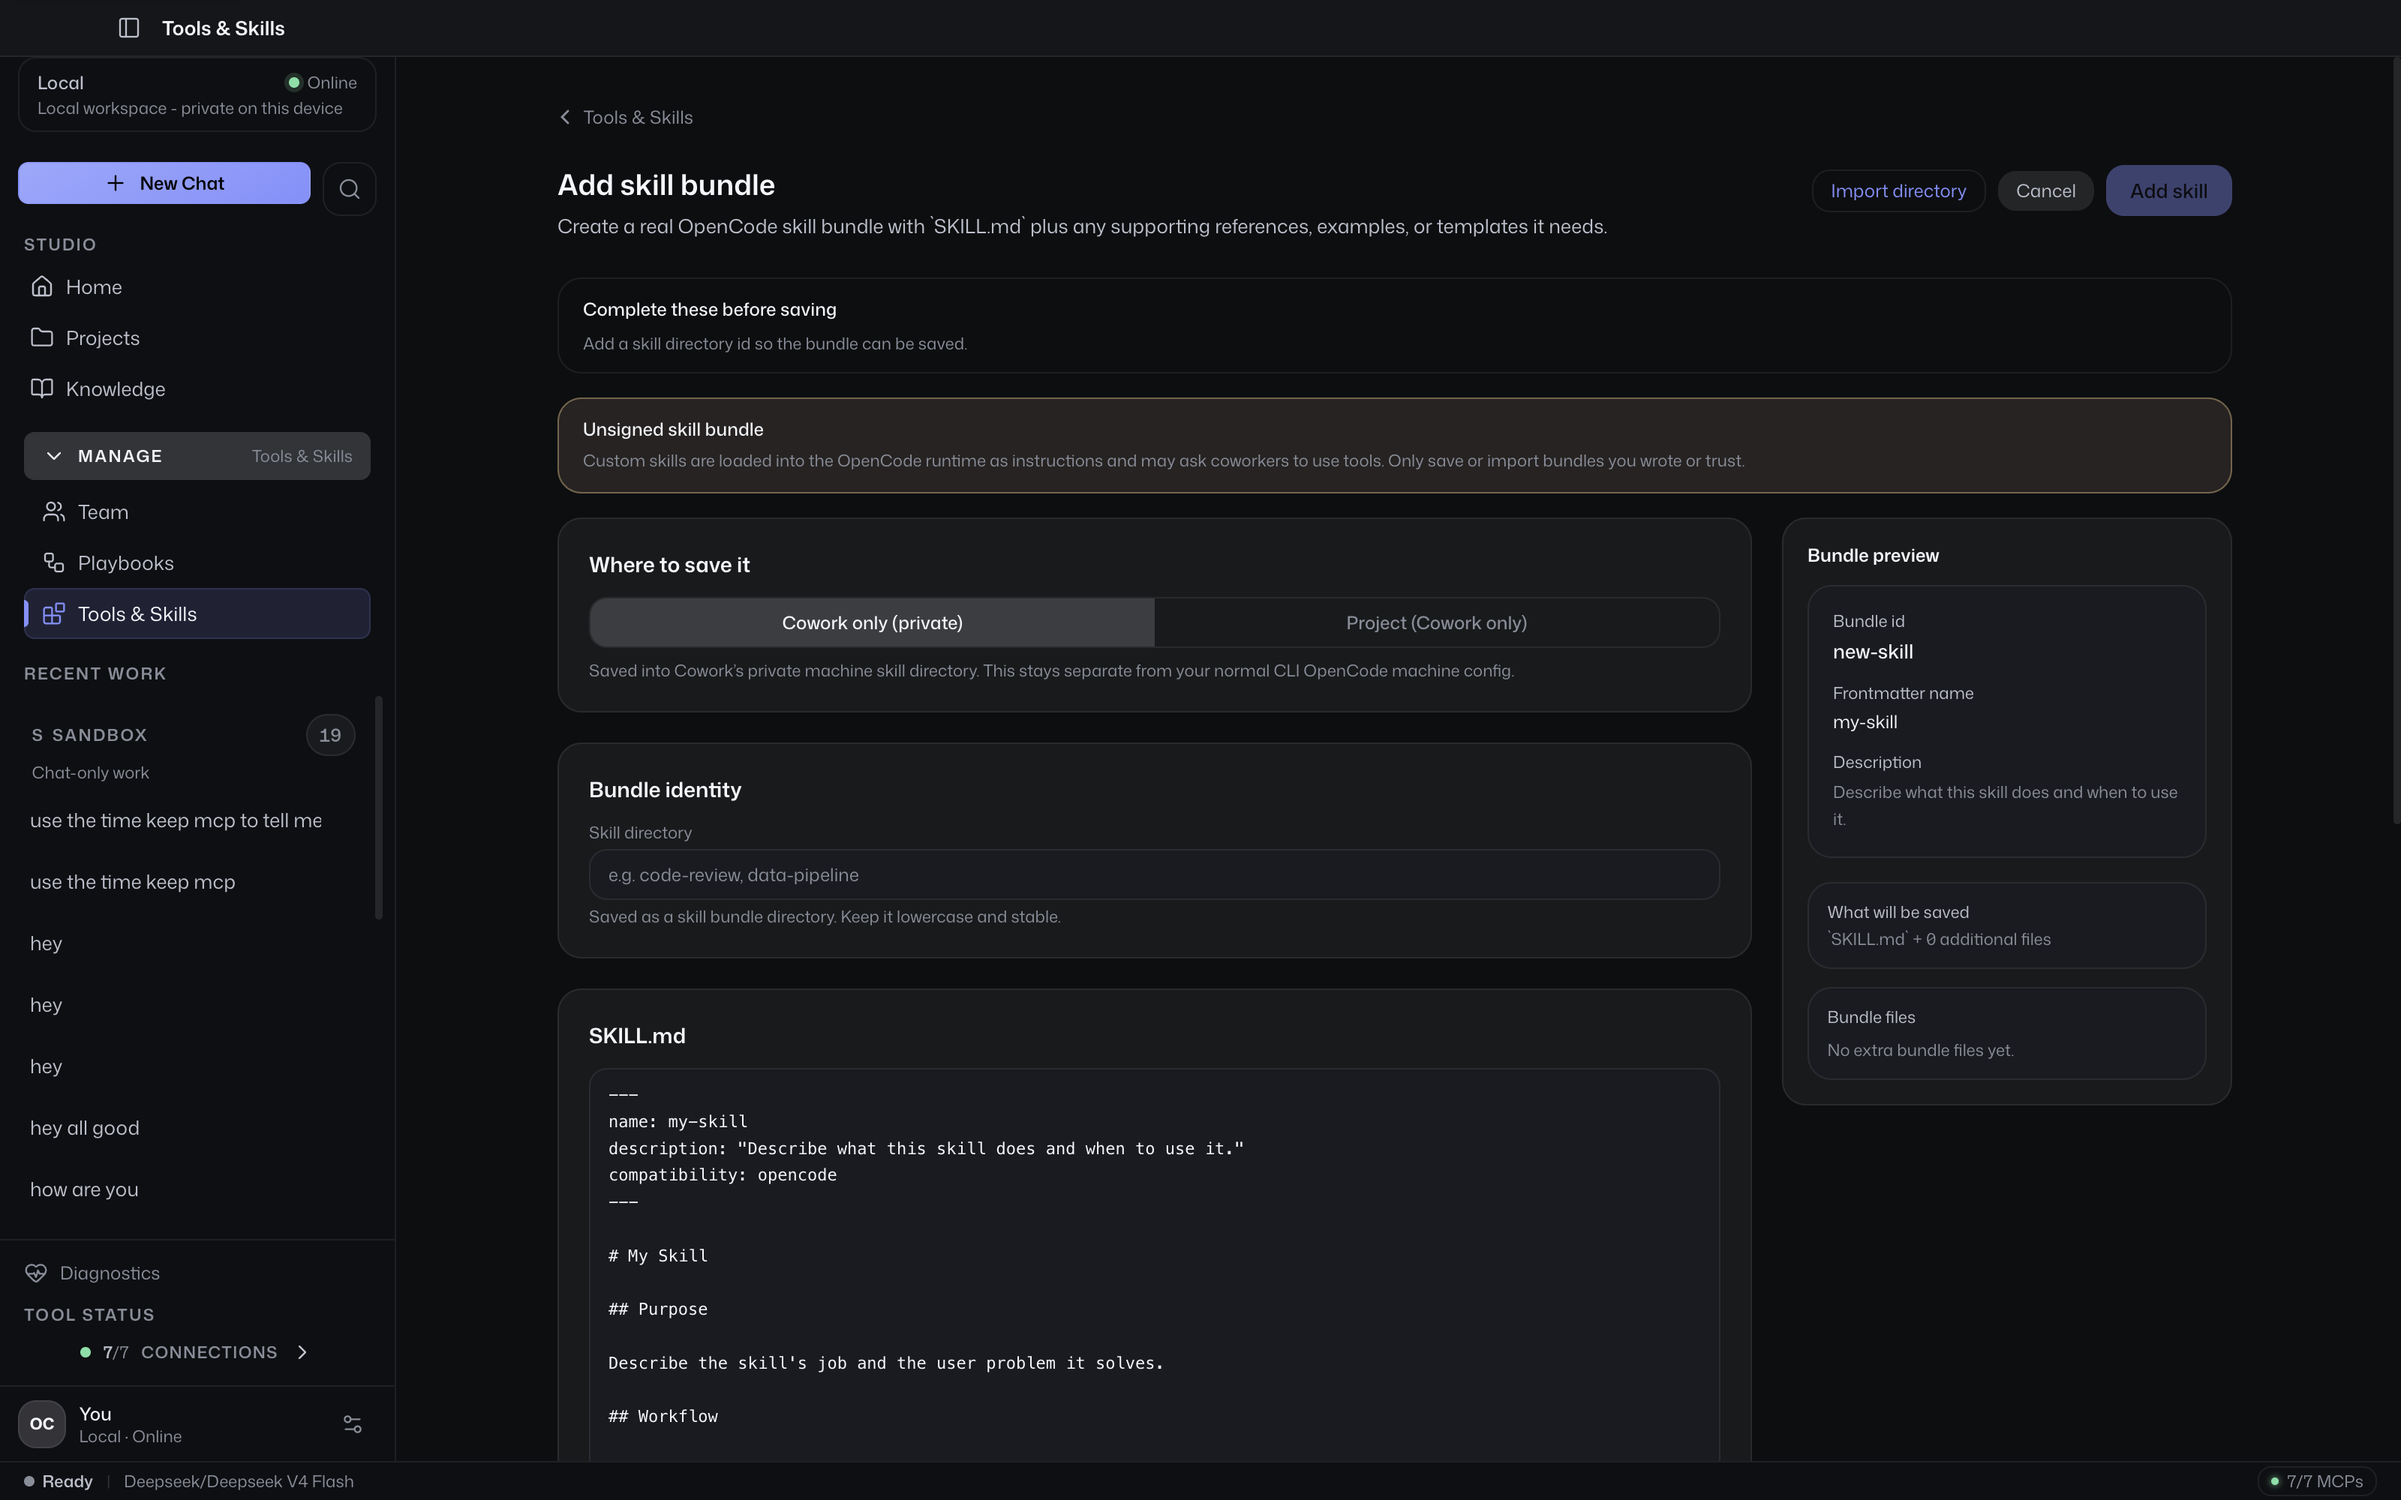
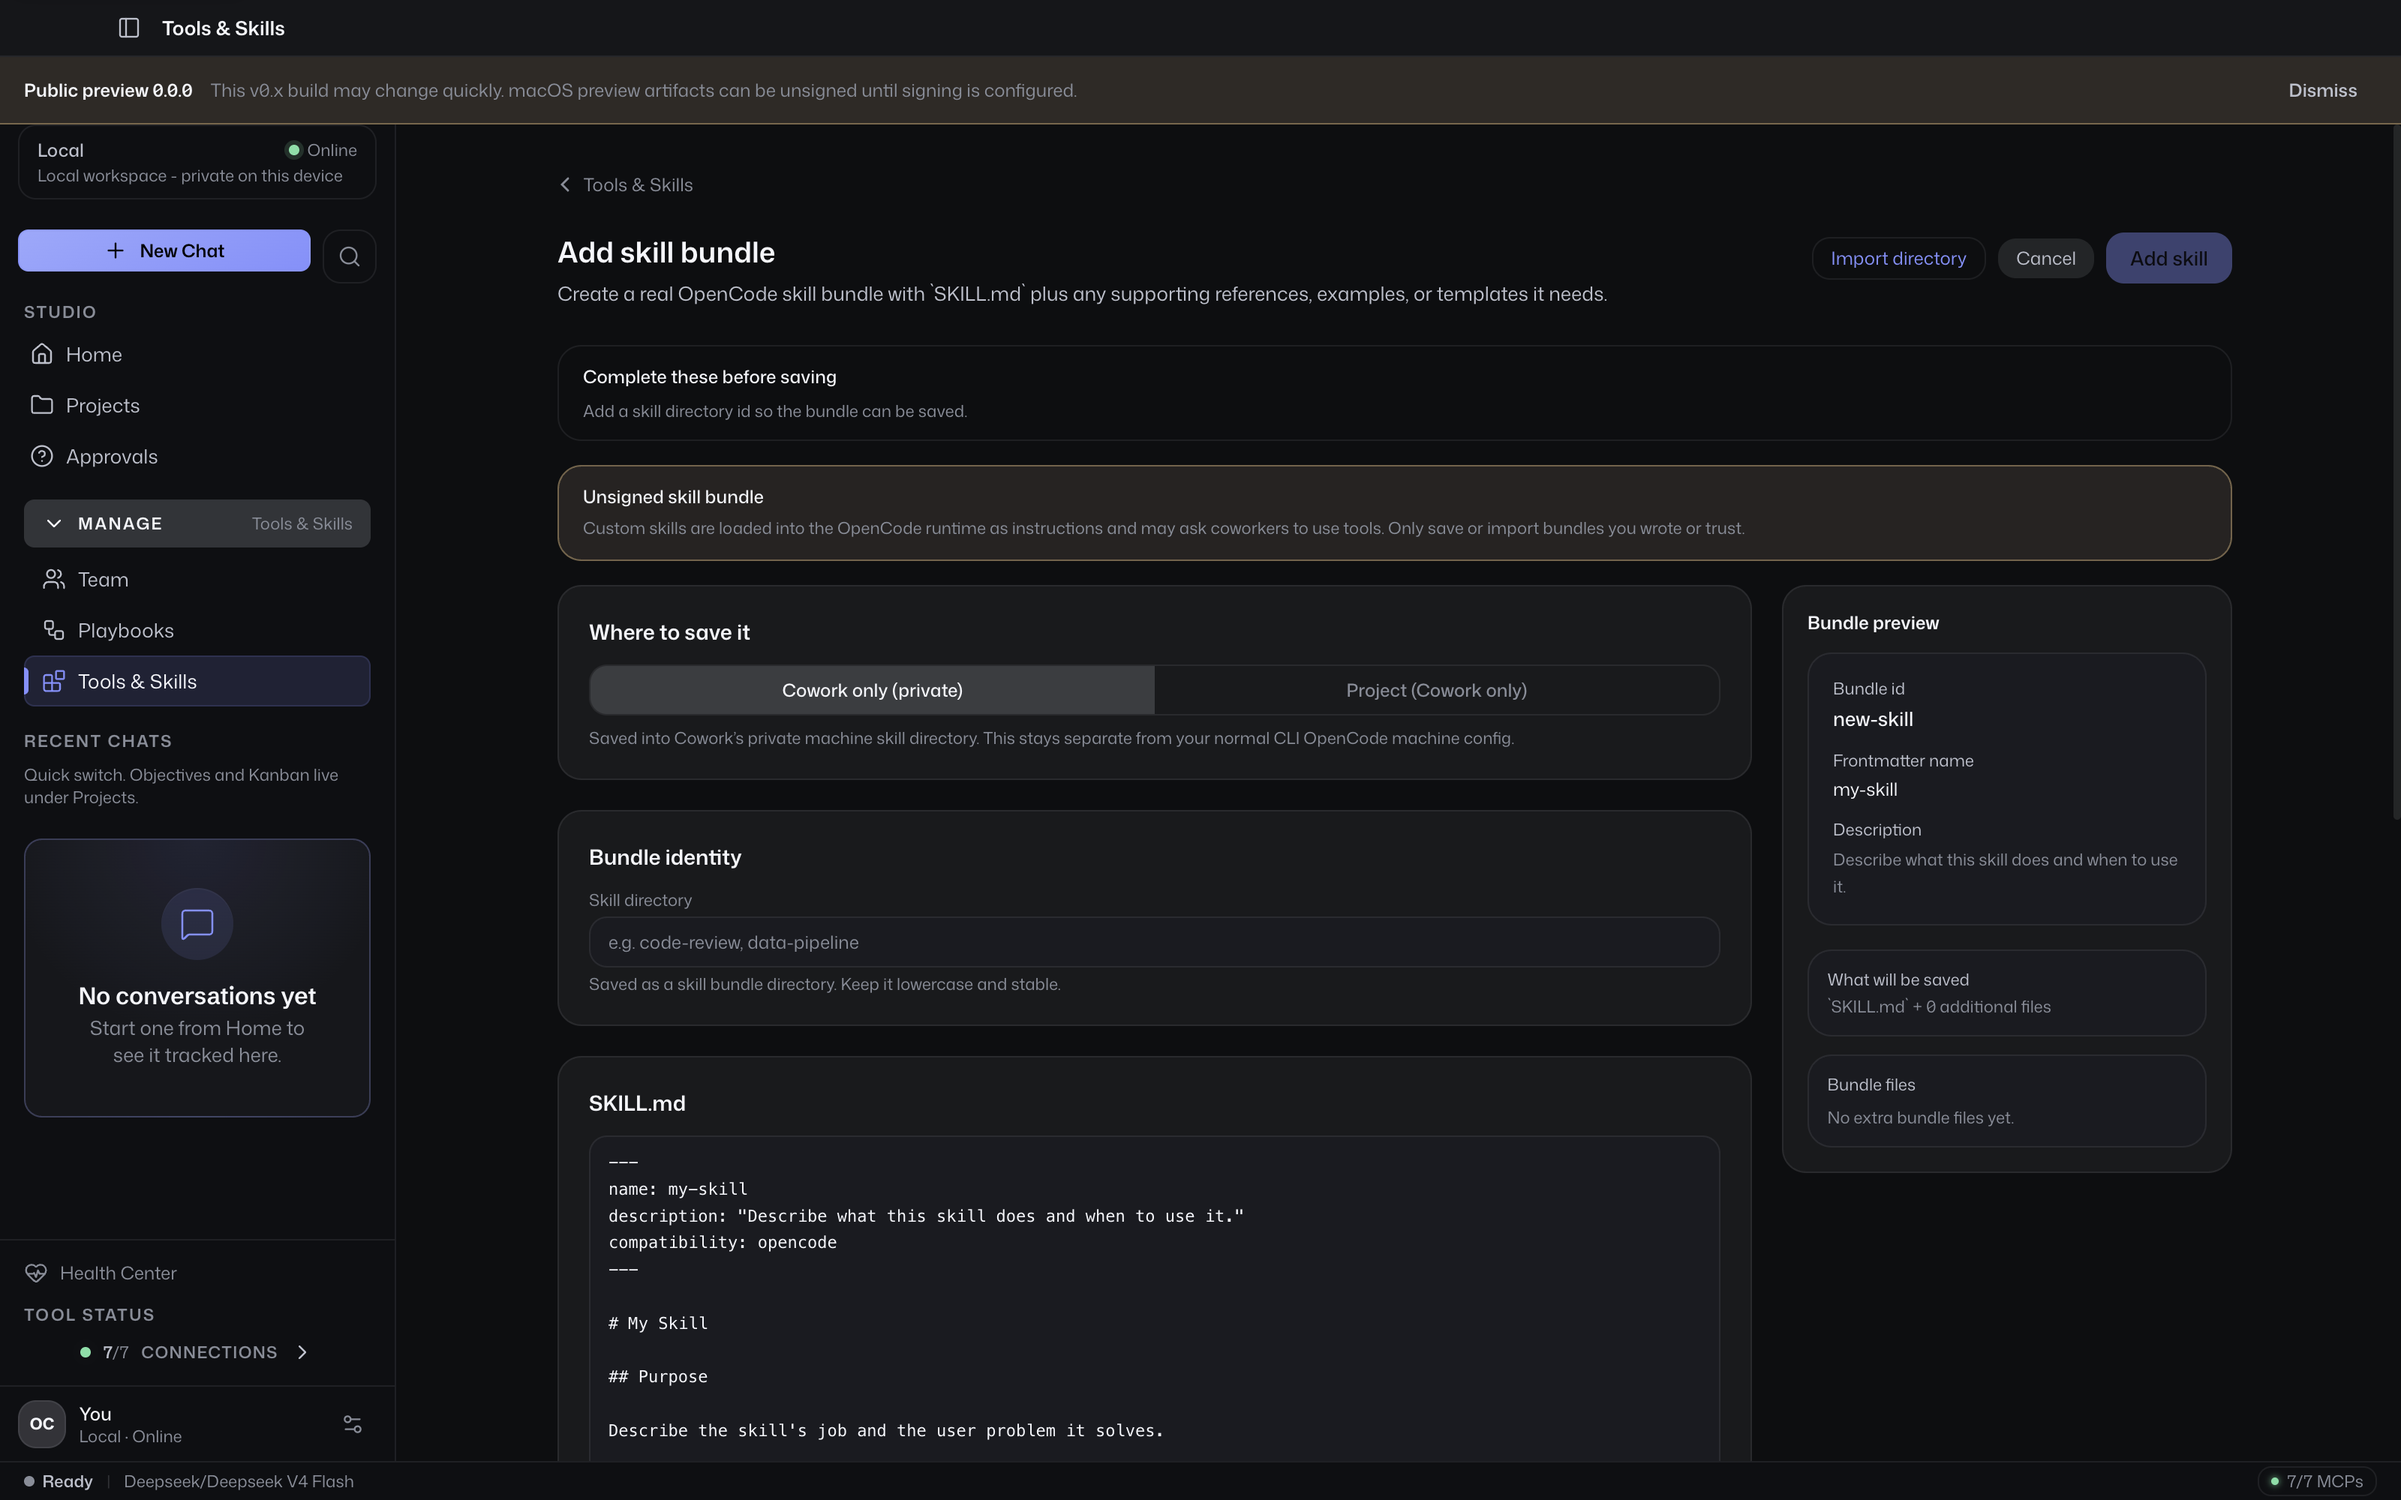
fix(hardening): close 2026-07-25 audit findings
Full first-principles audit remediation:

- i18n: regenerate coverage-status.ts and wire `pnpm i18n:check` into the
  CI validate job — the gate existed but no workflow ran it, which is how
  master drifted red (F1)
- screenshots: regenerate all 21 docs/assets/auto captures, stale since
  the Diagnostics -> Health Center rename (F2)
- session titles: new displaySessionTitle helper humanizes OpenCode SDK
  default titles ("New session - <ISO>") to "New chat · <date>" in the
  sidebar, chat header, and artifact labels; hand-translated into all 11
  catalogs per repo policy; 5 unit tests (F8)
- chat rail: rename the artifacts section "Review" -> "Outputs" so the
  inspector no longer shows two adjacent "Review" headings (F9)
- codeql: also run on release tags (v*, gateway@v*/-v*, wiki@v*/-v*) so
  releases never ship with only a weeks-old monthly scan (F5)
- docs: surface the 7 orphaned decision/history docs in a "Decisions &
  History" nav group (F7); document server-side session revocation as a
  hosted-tier precondition (F3), dual-stack consolidation revisit
  triggers (F6), a voice value-review date of 2026-10-25 (F10), and the
  locale coverage policy (F11)

F4 (GHSA ignores) needed no change: #998 already cleared the ignore list
and pnpm audit:full runs clean with zero exceptions.

diff --git a/packages/app/src/helpers/session-title.test.ts b/packages/app/src/helpers/session-title.test.ts
@@ -1,0 +1,34 @@
+import { describe, expect, it } from 'vitest'
+import { displaySessionTitle } from './session-title'
+
+describe('displaySessionTitle', () => {
+  it('passes user and history-derived titles through unchanged', () => {
+    expect(displaySessionTitle({ title: 'Fix the perf gate', createdAt: '2026-07-17T09:24:11.216Z' }))
+      .toBe('Fix the perf gate')
+    // Titles that merely mention the SDK default are not defaults.
+    expect(displaySessionTitle({ title: 'New session planning doc' }))
+      .toBe('New session planning doc')
+  })
+
+  it('returns null for missing or blank titles so callers keep their fallbacks', () => {
+    expect(displaySessionTitle({ title: null })).toBeNull()
+    expect(displaySessionTitle({ title: '   ' })).toBeNull()
+    expect(displaySessionTitle({})).toBeNull()
+  })
+
+  it('humanizes SDK default titles using the embedded timestamp', () => {
+    const result = displaySessionTitle({ title: 'New session - 2026-07-17T09:24:11.216Z' })
+    expect(result).toMatch(/^New chat · /)
+    expect(result).not.toContain('2026-07-17T')
+  })
+
+  it('falls back to createdAt when the default title has no timestamp', () => {
+    const result = displaySessionTitle({ title: 'New session', createdAt: '2026-07-17T09:24:11.216Z' })
+    expect(result).toMatch(/^New chat · /)
+  })
+
+  it('degrades to a plain label when no timestamp is available', () => {
+    expect(displaySessionTitle({ title: 'New session' })).toBe('New chat')
+    expect(displaySessionTitle({ title: 'New session', createdAt: 'not-a-date' })).toBe('New chat')
+  })
+})

diff --git a/packages/app/src/helpers/session-title.ts b/packages/app/src/helpers/session-title.ts
@@ -1,0 +1,35 @@
+import { formatDate, t } from './i18n'
+
+// OpenCode SDK default titles arrive as "New session" or
+// "New session - 2026-07-17T09:24:11.216Z". Rendering the raw ISO instant is
+// runtime-host's recognizer (session-history-loader.ts) applied at display
+// time: surfaces that show these titles humanize them instead of leaking the
+// machine timestamp, while user- or history-derived titles pass through.
+const DEFAULT_SDK_SESSION_TITLE_RE = /^New session(?: - (\d{4}-\d{2}-\d{2}T\d{2}:\d{2}:\d{2}(?:\.\d+)?Z?))?$/i
+
+function parseInstant(value?: string | null): Date | null {
+  if (!value) return null
+  const parsed = new Date(value)
+  return Number.isNaN(parsed.getTime()) ? null : parsed
+}
+
+/**
+ * Display title for a session, or null when the session has no usable title so
+ * callers keep their existing fallbacks. SDK default titles become a localized
+ * "New chat · Jul 17, 09:24" using the timestamp embedded in the title when
+ * present, else the session's createdAt.
+ */
+export function displaySessionTitle(session: {
+  title?: string | null
+  createdAt?: string | null
+}): string | null {
+  const trimmed = session.title?.trim()
+  if (!trimmed) return null
+  const match = DEFAULT_SDK_SESSION_TITLE_RE.exec(trimmed)
+  if (!match) return trimmed
+  const instant = parseInstant(match[1] || session.createdAt)
+  if (!instant) return t('session.newChat', 'New chat')
+  return t('session.newChatAt', 'New chat · {{when}}', {
+    when: formatDate(instant, { month: 'short', day: 'numeric', hour: '2-digit', minute: '2-digit' }),
+  })
+}

diff --git a/packages/app/src/components/sidebar/ThreadList.tsx b/packages/app/src/components/sidebar/ThreadList.tsx
@@ -5,6 +5,7 @@ import { LOCAL_WORKSPACE_ID, normalizeWorkspaceId, sessionWorkspaceKey } from '.
 import { switchToSession } from '../../helpers/switchToSession'
 import { confirmSessionDelete } from '../../helpers/destructive-actions'
 import { t } from '../../helpers/i18n'
+import { displaySessionTitle } from '../../helpers/session-title'
 import { writeTextToClipboard } from '../../helpers/clipboard'
 import { ViewErrorBoundary } from '../layout/ViewErrorBoundary'
 import { cloudGitRepositoryLabel } from '@open-cowork/shared'
@@ -473,7 +474,7 @@ export function ThreadList({ onSelect, searchQuery }: { onSelect?: () => void; s
                         ⑂
                       </span>
                     )}
-                    {session.title || t('sidebar.threadFallback', 'Thread {{id}}', { id: session.id.slice(0, 6) })}
+                    {displaySessionTitle(session) || t('sidebar.threadFallback', 'Thread {{id}}', { id: session.id.slice(0, 6) })}
                   </span>
                   <span className="flex items-center gap-1.5 mt-px">
                     {session.directory && (

diff --git a/packages/app/src/components/chat/ChatThreadHeader.tsx b/packages/app/src/components/chat/ChatThreadHeader.tsx
@@ -1,6 +1,7 @@
 import type { ConversationTaskContext } from '@open-cowork/shared'
 import type { Session } from '../../stores/session'
 import { t } from '../../helpers/i18n'
+import { displaySessionTitle } from '../../helpers/session-title'
 import { ActionCluster, Badge, Button, Icon } from '@open-cowork/ui'
 
 type ChatThreadHeaderProps = {
@@ -38,7 +39,7 @@ export function ChatThreadHeader({
     <div className="shrink-0 border-b border-border-subtle px-4 py-2 flex items-center justify-between gap-4">
       <div className="min-w-0">
         <div data-testid="chat-thread-title" className="font-display text-sm font-medium text-text truncate">
-          {currentSession?.title || `Chat ${currentSessionId.slice(0, 8)}`}
+          {(currentSession && displaySessionTitle(currentSession)) || `Chat ${currentSessionId.slice(0, 8)}`}
         </div>
         <div className="flex items-center gap-2 mt-0.5 flex-wrap">
           {currentSession?.directory && (

diff --git a/packages/app/src/components/studio/StudioUtilityPages.tsx b/packages/app/src/components/studio/StudioUtilityPages.tsx
@@ -7,6 +7,7 @@ import { useSessionStore } from '../../stores/session'
 import { LOCAL_WORKSPACE_ID, sessionWorkspaceKey } from '../../stores/session-workspace-keys'
 import { useActiveWorkspaceSupport } from '../../stores/workspace-support'
 import { t } from '../../helpers/i18n'
+import { displaySessionTitle } from '../../helpers/session-title'
 import {
   Badge, Button, Card, Dialog, Icon, StudioPageHeader } from '@open-cowork/ui'
 import { ConfirmDialog } from '../ConfirmDialog'
@@ -470,7 +471,7 @@ export function StudioArtifactsPage({ onOpenChat }: OpenChatProps) {
           kind,
           status: artifact.status || defaultArtifactStatusForKind(kind),
           sessionId: session.id,
-          sessionTitle: session.title,
+          sessionTitle: displaySessionTitle(session),
           workspaceId: activeWorkspaceId,
         }
       })

diff --git a/packages/app/src/helpers/i18n-catalogs/hi.ts b/packages/app/src/helpers/i18n-catalogs/hi.ts
@@ -33,6 +33,8 @@ const strings: Record<string, string> = {
   'sidebar.searchTitle': 'बातचीत खोजें (⌘K)',
   'sidebar.noMatches': 'कोई मिलान नहीं',
   'sidebar.threadFallback': 'बातचीत {{id}}',
+  'session.newChat': 'नई बातचीत',
+  'session.newChatAt': 'नई बातचीत · {{when}}',
   'newThread.project': 'प्रोजेक्ट खोलें',
   'sidebar.newChat': 'नई चैट',
   'newChat.blankUnavailableReason': 'इस कार्यक्षेत्र में चैट बनाना उपलब्ध नहीं है.',

diff --git a/packages/app/src/helpers/i18n-catalogs/ru.ts b/packages/app/src/helpers/i18n-catalogs/ru.ts
@@ -33,6 +33,8 @@ const strings: Record<string, string> = {
   'sidebar.searchTitle': 'Поиск по беседам (⌘K)',
   'sidebar.noMatches': 'Совпадений нет',
   'sidebar.threadFallback': 'Беседа {{id}}',
+  'session.newChat': 'Новая беседа',
+  'session.newChatAt': 'Новая беседа · {{when}}',
   'newThread.project': 'Открыть проект',
   'sidebar.newChat': 'Новый чат',
   'newChat.blankUnavailableReason': 'Создание чата недоступно для этой рабочей области.',

diff --git a/packages/app/src/helpers/i18n-catalogs/ja.ts b/packages/app/src/helpers/i18n-catalogs/ja.ts
@@ -33,6 +33,8 @@ const strings: Record<string, string> = {
   'sidebar.searchTitle': 'スレッドを検索 (⌘K)',
   'sidebar.noMatches': '一致するものがありません',
   'sidebar.threadFallback': 'スレッド {{id}}',
+  'session.newChat': '新しいチャット',
+  'session.newChatAt': '新しいチャット · {{when}}',
   'newThread.project': 'プロジェクトを開く',
   'sidebar.newChat': '新しいチャット',
   'newChat.blankUnavailableReason': 'このワークスペースではチャットを作成できません。',

diff --git a/packages/app/src/components/chat/SessionInspector.tsx b/packages/app/src/components/chat/SessionInspector.tsx
@@ -372,7 +372,7 @@ export function SessionInspector({ onClose }: InspectorProps) {
         </ReviewPanel>
 
         <DiffView
-          title={t('sessionInspector.reviewTitle', 'Review')}
+          title={t('sessionInspector.outputsTitle', 'Outputs')}
           subtitle={reviewFiles.length
             ? t('sessionInspector.reviewSubtitle', '{{count}} artifacts ready for inspection', { count: reviewFiles.length })
             : t('sessionInspector.reviewEmptySubtitle', 'Artifacts, file changes, and task outputs appear here first.')}

diff --git a/packages/app/src/helpers/i18n-catalogs/ar.ts b/packages/app/src/helpers/i18n-catalogs/ar.ts
@@ -37,6 +37,8 @@ const strings: Record<string, string> = {
   'sidebar.searchTitle': 'بحث عن محادثة (⌘K)',
   'sidebar.noMatches': 'لا توجد نتائج',
   'sidebar.threadFallback': 'محادثة {{id}}',
+  'session.newChat': 'محادثة جديدة',
+  'session.newChatAt': 'محادثة جديدة · {{when}}',
   'newThread.project': 'فتح مشروع',
   'sidebar.newChat': 'دردشة جديدة',
   'newChat.blankUnavailableReason': 'إنشاء الدردشة غير متاح لمساحة العمل هذه.',

diff --git a/packages/app/src/helpers/i18n-catalogs/fr.ts b/packages/app/src/helpers/i18n-catalogs/fr.ts
@@ -56,6 +56,8 @@ const strings: Record<string, string> = {
   'sidebar.searchTitle': 'Rechercher une conversation (⌘K)',
   'sidebar.noMatches': 'Aucun résultat',
   'sidebar.threadFallback': 'Conversation {{id}}',
+  'session.newChat': 'Nouvelle conversation',
+  'session.newChatAt': 'Nouvelle conversation · {{when}}',
   'newThread.project': 'Ouvrir un projet',
   'sidebar.newChat': 'Nouveau chat',
   'newChat.blankUnavailableReason': 'La création de chat est indisponible dans cet espace de travail.',

diff --git a/packages/app/src/helpers/i18n-catalogs/it.ts b/packages/app/src/helpers/i18n-catalogs/it.ts
@@ -33,6 +33,8 @@ const strings: Record<string, string> = {
   'sidebar.searchTitle': 'Cerca conversazione (⌘K)',
   'sidebar.noMatches': 'Nessun risultato',
   'sidebar.threadFallback': 'Conversazione {{id}}',
+  'session.newChat': 'Nuova conversazione',
+  'session.newChatAt': 'Nuova conversazione · {{when}}',
   'newThread.project': 'Apri progetto',
   'sidebar.newChat': 'Nuova chat',
   'newChat.blankUnavailableReason': 'La creazione della chat non è disponibile per questo spazio di lavoro.',
